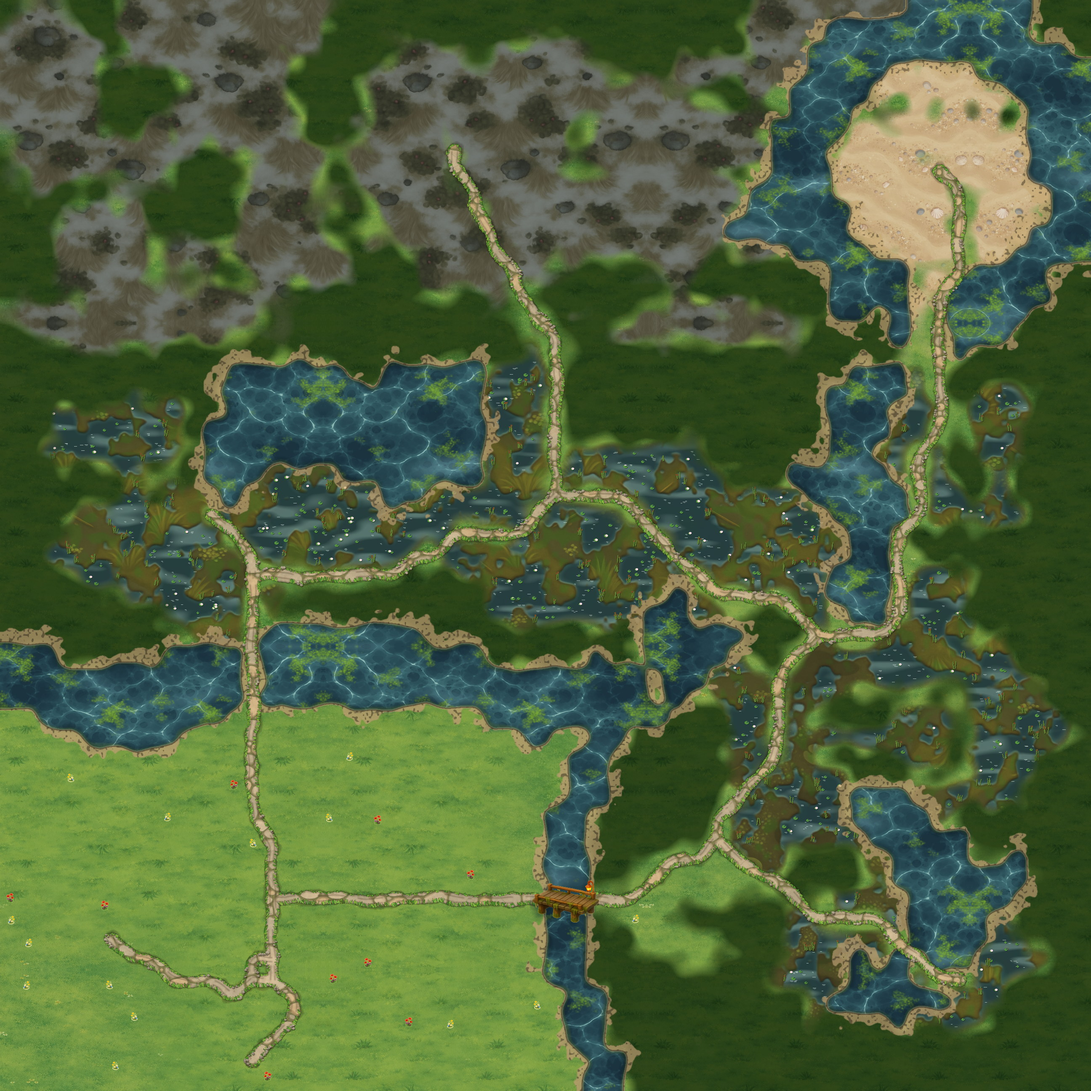
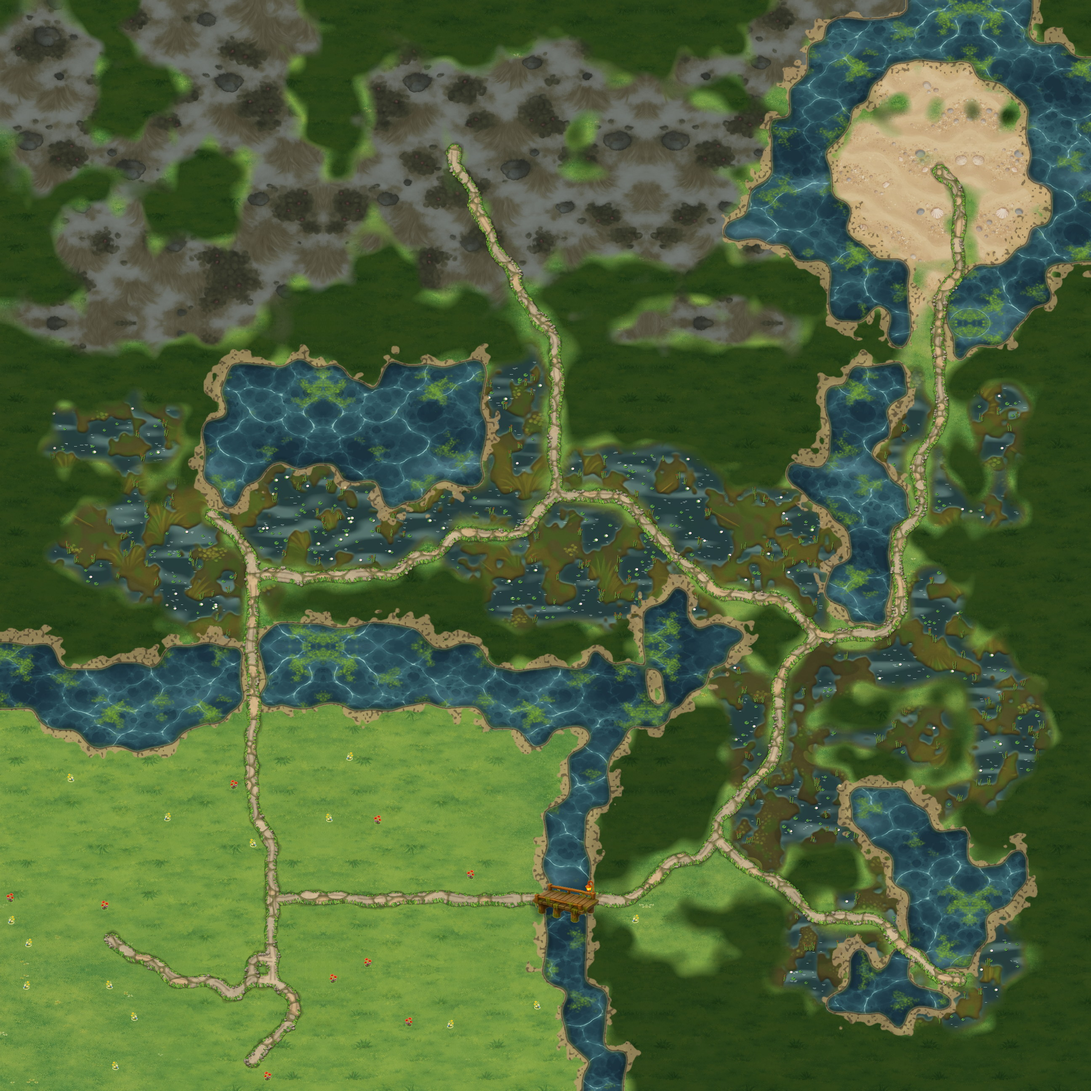
Bagna: runda 10 planszy — kamieniołom w zakątku za strażą, kopalnia pokeballi zamknięta lasem, ekrany pogranicza odchudzone
Kamieniołom (11,51) → (5,52) do zakątka za strażą (8,50), stos pod
kopalnią; kopalnia pokeballi otoczona lasem, straż (17,42) w jedno-
polowym wylocie. Bez źródła (8,27), jagód (9,29), straży (32,46);
kępa doliny w łąkę, wysepki lasu na płaskowyżu w ziemię jałową, las
w zatokach. 116 obiektów co 11,0 pola, pasy 22/21/31/22/20, bez
bitwy 24 %, probe-misja OK.

Claude-Session: https://claude.ai/code/session_01BGiaZhgTwDgLbUxsH7vpi6

diff --git a/src/data/plansza-teren-bagna.ts b/src/data/plansza-teren-bagna.ts
@@ -9,57 +9,57 @@
 // T las, # skały, ~ woda.
 
 export const TEREN = [
-  'T##TTTjjjjjjjjjjTTTTTTTTTTTTTTTTTTTTTjjjjjjjj~~~~~~TTT',
+  'T##TTTTjjjjjjjjTTTTTTTTTTTTTTTTTTTTTTTjjjjjjj~~~~~~TTT',
   'T###TTjjjjjjjjjjTTT#TTTTTTTTTTTTTTTTTjjjj~~~~~~~~~~TTT',
-  '#####TjjjjjjjjjTTTTTTjjTTjTjjTTTTTTTTjjj~~~~~~~~~~~~~T',
+  '#####TTjjjjjjjjTTTTTTTTTTTTjjTTTTTTTTjjj~~~~~~~~~~~~~T',
   '#####TTTTjjjjjTTTTjj##jj#jjjjjTTTjjjjjjj~~~~,,,,~~~~~~',
   '#####TTTTjjjjjTTTTjjjjjjjjjjjjjjjTTTTjj~~~~,,,,,,,~~~~',
   '#####TTTTjjjjjjTTTjjjjjjjjjjTT######TTT~~~TTTT,TTTT~~~',
-  '####jTTjjjjjjjjTTTjjjjjjjjjjT#########~~~~,,,,,,,,,~~~',
-  'T####jjjjTTTjjjjTjjjjj=jjjjjT#########~~~,,,,,,,,,,~~~',
-  'T###jjjjjTTTjjjjTjjjjj=jjjjjTT######TT~~~,,,,,=,,,,~~~',
-  'T#TTTTTTTTTTjjjTjTjjjjj=jjjjjjjjjjjjj~~~~,,,,,,=,,,,~~',
-  'TTTjjjjTTTTTjjjjTTTjjjj=jjjjjjjjjjjjj~~~~~,,,,,=,,,,~~',
-  'TTTjjjjTTTTTjjjjTTjjjjjj=jjjjjjjjjjj~~~~~~,,,,,=,,,~~~',
+  '####TTTjjjjjjjjTTTjjjjjjjjjjT#########~~~~,,,,,,,,,~~~',
+  'T####jjjjTTTjjjjTTjjjj=jjjjjT#########~~~,,,,,,,,,,~~~',
+  'T###TjjjjTTTjjjjTjjjjj=jjjjjTT######TT~~~,,,,,=,,,,~~~',
+  'T#TTTTTTTTTTjjjjjjjjjjj=jjjjjjjjjjjjj~~~~,,,,,,=,,,,~~',
+  'TTTjjjjTTTTTjjjjjjTjjjj=jjjjjjjjjjjjj~~~~~,,,,,=,,,,~~',
+  'TTTjjjjTTTTTjjjjjjjjjjjj=jjjjjjjjjjj~~~~~~,,,,,=,,,~~~',
   'TTTjjjjjjjjjjjjjjjTTjjjj=jjjjjjjjjjTjjj~~~~,,,,=,,~~~~',
-  'TTTjjjjTTTTTTjjjjTTTTjjjj=jTTTTTTjTTTTTTT~~~~,,=~~~~TT',
+  'TTTTjjjjjjjjjjjjjTTTTjjjj=jTTTTTTTTTTTTTT~~~~,,=~~~~TT',
   'TTTT####jjjjjjTTTTTTTjjTj=TTTTTTTTTTTTTTT~~~~,=~~~~~TT',
   '###########T#TTTTTTTTTTTTT=jTTTT######T#T~~T~,=~~~~TTT',
   'T###########TT#TTTTTTTTTTTj=TT##########TTTT~,=~~~TTTT',
   'T############TTTTTTTTTTTTTb=T############TTTT,=~TTTT#T',
   'TT#########~~~~~~TT~~~~~bbb=T###########TT~~~b=TTTTTTT',
-  'TTTTTTbTbTT~~~~~~~~~~~~~bbb=TT###########~~~~b=TbbbTTT',
+  'TTTTTTbTTTT~~~~~~~~~~~~~bbb=TT###########~~~~b=TbbbTTT',
   'TTbbbbbbbTT~~~~~~~~~~~~~bbb=TTTT######TTT~~~bb=TbbbTTT',
-  'TTTbbbbbbT~~~~~~~~~~~~~~bbb=TTTTTTbTTTTTT~~~bb=TbbbTTT',
+  'TTTbbbbbbT~~~~~~~~~~~~~~bbb=TTTTTTTTTTTTT~~~bb=TbbbTTT',
   'TTbbbbbbbT~~~~~~~~~~~~~~bbb=bbbbbbbTTTTTT~~bb=bTbbbTTT',
   'TTTTTTbTTT~~~bbbb~~~~~~~bbb=bbbbbbbbTTT~~~~~b=bTTbTTTT',
   'TTTTTTbTbbb~bbbbbbb~~bbbbbb====bbbbbbbbb~~~~~=bbTbTTTT',
   'TTTTbbbbbb=bbbbbbbbbbbbbbb=bbbb=bbbbbbbbb~~~~=bbbbbTTT',
   'TTTbbbbbbbb=bbbbbbbbbb====bbbbbb=bbbbbbbbb~~=TTTT####T',
   'TTbbbbbbbbbb=bbbbbbb==bbbbbbbbbbb=bbbbbbbb~~=TTT######',
-  'TTTTbbbbbbbb========TTTbbbbbbbbbbb=bbbbbb~~~=bbb######',
+  'TTTTbbbbbbbb========TTTbbbbbbbbbbb=bbbbbb~~~=bbT######',
   'TT#TTTbbbbbb=bTTTTTTTTTTbbbbbbbbb~b====bb~~~=bbb######',
   'TTTTTTTTbbbb=bTTTTTTTTTTbbbbbbbb~~bbTTT=bT~~=bbb######',
   'TTTTTTTTTTbb=~~~~~~~~TTTTTTTTTTT~~~~~TTT====bbbbTb###T',
   '~~~TTTTT~~~~=~~~~~~~~~~~TTTTT~TT~~~~bTT=bbbbbbbbbbTTTT',
   '~~~~~~~~~~~~=~~~~~~~~~~~~~~~~~~~T~~bbb=bbbbbbbbbbbbTTT',
   '~~~~~~~~~~~~=~~~~~~~~~~~~~~~~~~~T~Tbbb=bbbTTTTTTbbbbTT',
-  'TT~~~~~~~~~.=...........~~~~~~~~~TTTbb=bTTTTbbbTbbbbbT',
-  'TTTT~~~~~TT.=.............~..~~TTTTTbb=bbbbbbbbTbbbbbT',
+  'TT~~~~~~~~~.=...........~~~~~~~~~TTTbb=bTTTTbbbTbbbbTT',
+  'TTTT~~~~~TT.=.............~..~~TTTTTbb=bbbbbbbbTbbbbTT',
   'TTTT######T.=...............~~TTTTTTbb=bTTTTbbbTbbbbTT',
-  'TTTT######..=.......TT......~~TTTTTTb=bbbbTTTTTTbbbTTT',
-  'TTTT######..=.......TT......~~TTTTTT=bbbbb~~~bbbbbbTTT',
-  'TTTT######..=.......TT.....~~TTTTTT=bbbbbb~~~~bTTTTT#T',
-  'TTTT######...=......TT.....~~TTTTTT=bbbbbbb~~~~~TTTTTT',
-  'TTTT######...=.............~~TT..==.=bbTTTTb~~~~TT~TTT',
+  'TTTT######..=...............~~TTTTTTb=bbbbTTTTTTbbbTTT',
+  'TTTT######..=...............~~TTTTTT=bbbbb~~~bbbbbTTTT',
+  'TTTT######..=..............~~TTTTTT=bbbbbb~~~~bTTTTT#T',
+  'TTTT######...=..T.T........~~TTTTTT=bbbbbbb~~~~~TTTTTT',
+  'TTTT######...=..T.T........~~TT..==.=bbTTTTb~~~~TT~TTT',
   'TTTT######...=.............~~TT.=....==TTTTb~~~~~~~TTT',
   'TTTT######...===================..T..TT=Tbbbb~~~~~TTTT',
   'TTT..........=.............~~TT..TTTTTTb====b~~~~bTTTT',
   'TTTT.=.......=.............~~TT.....TTTbbbbb=~~~~bbTTT',
-  'TTTT..==....==.............~~TTTT...TTbbbb~b~=~~bbbbTT',
+  'TTTT..==....==.............~~TTTT...TTbbbb~b~=~~bbbTTT',
   'TTT.....===.==.............~~TTTTTTTTTbbbb~~~b==bbTTTT',
   'TTTTTTTTTT.=..=.............~~TTTTTTTTTTb~~~~~~bbbTTTT',
-  'TTTT..........=TTTTT........~~TTTT#T####b###~bbbbTTTTT',
+  'TTTT..........=TTTTT........~~TTTT#T####T###~bbbbTTTTT',
   'TTTT.....T...=.TTTTTTTTTT..T~~TTT#############TTTTTTTT',
   'TTTT.....T..=..TTTTTTTTTTTTTT~~TTT#############T#TTTTT',
   'TTTT.....T.....TTTTTTTTTTTTTT~~TTTT###########TTTTTTTT',
@@ -99,7 +99,6 @@ export const ROZSTAWIENIE: Array<{
 }> = [
   { x: 46, y: 7, rodzaj: 'artefakt', strefa: 'wroga', artefakt: 'ksiezycowy-kamien' },
   { x: 45, y: 15, rodzaj: 'potwor', strefa: 'wroga', sila: 'wodz', nazwa: 'Wódz Srebrnych Płaszczy' },
-  { x: 11, y: 51, rodzaj: 'kopalnia', strefa: 'dom', surowiec: 'kamien' },
   { x: 18, y: 46, rodzaj: 'kopalnia', strefa: 'dom', surowiec: 'odlamek' },
   { x: 11, y: 43, rodzaj: 'surowiec', strefa: 'dom', surowiec: 'jagoda' },
   { x: 4, y: 45, rodzaj: 'kopalnia', strefa: 'dom', surowiec: 'jagoda' },
@@ -131,11 +130,9 @@ export const ROZSTAWIENIE: Array<{
   { x: 38, y: 12, rodzaj: 'budynek', strefa: 'wroga', budynek: 'osrodek-ewolucji' },
   { x: 29, y: 12, rodzaj: 'budynek', strefa: 'wroga', budynek: 'arena' },
   { x: 26, y: 16, rodzaj: 'potwor', strefa: 'wroga', sila: 'silny' },
-  { x: 5, y: 51, rodzaj: 'skrzynia', strefa: 'dom' },
   { x: 3, y: 11, rodzaj: 'artefakt', strefa: 'wroga' },
   { x: 4, y: 10, rodzaj: 'skrzynia', strefa: 'wroga' },
   { x: 5, y: 10, rodzaj: 'surowiec', strefa: 'wroga', surowiec: 'kamien' },
-  { x: 8, y: 12, rodzaj: 'potwor', strefa: 'wroga', sila: 'silny' },
   { x: 12, y: 6, rodzaj: 'kopalnia', strefa: 'wroga', surowiec: 'jagoda' },
   { x: 40, y: 27, rodzaj: 'budynek', strefa: 'pogranicze', budynek: 'chatka' },
   { x: 19, y: 10, rodzaj: 'skrzynia', strefa: 'wroga' },
@@ -148,7 +145,6 @@ export const ROZSTAWIENIE: Array<{
   { x: 11, y: 3, rodzaj: 'budynek', strefa: 'wroga', budynek: 'wieza-obserwacyjna' },
   { x: 47, y: 24, rodzaj: 'budynek', strefa: 'pogranicze', budynek: 'woz' },
   { x: 13, y: 9, rodzaj: 'budynek', strefa: 'wroga', budynek: 'zrodlo' },
-  { x: 32, y: 46, rodzaj: 'potwor', strefa: 'pogranicze', sila: 'slaby' },
   { x: 35, y: 46, rodzaj: 'skrzynia', strefa: 'pogranicze' },
   { x: 35, y: 47, rodzaj: 'surowiec', strefa: 'pogranicze', surowiec: 'jagoda' },
   { x: 34, y: 47, rodzaj: 'artefakt', strefa: 'pogranicze' },
@@ -189,11 +185,9 @@ export const ROZSTAWIENIE: Array<{
   { x: 48, y: 4, rodzaj: 'surowiec', strefa: 'wroga', surowiec: 'pokeball' },
   { x: 13, y: 53, rodzaj: 'surowiec', strefa: 'dom', surowiec: 'pokeball' },
   { x: 13, y: 52, rodzaj: 'surowiec', strefa: 'dom', surowiec: 'odlamek' },
-  { x: 6, y: 51, rodzaj: 'surowiec', strefa: 'dom', surowiec: 'kamien' },
   { x: 48, y: 47, rodzaj: 'skrzynia', strefa: 'pogranicze' },
   { x: 48, y: 48, rodzaj: 'artefakt', strefa: 'pogranicze' },
   { x: 49, y: 48, rodzaj: 'surowiec', strefa: 'pogranicze', surowiec: 'odlamek' },
-  { x: 9, y: 29, rodzaj: 'surowiec', strefa: 'pogranicze', surowiec: 'jagoda' },
   { x: 3, y: 26, rodzaj: 'skrzynia', strefa: 'pogranicze' },
   { x: 3, y: 27, rodzaj: 'surowiec', strefa: 'pogranicze', surowiec: 'jagoda' },
   { x: 18, y: 27, rodzaj: 'budynek', strefa: 'pogranicze', budynek: 'portal' },
@@ -202,7 +196,6 @@ export const ROZSTAWIENIE: Array<{
   { x: 5, y: 27, rodzaj: 'budynek', strefa: 'pogranicze', budynek: 'wiatrak' },
   { x: 39, y: 48, rodzaj: 'budynek', strefa: 'pogranicze', budynek: 'gniazdo' },
   { x: 8, y: 1, rodzaj: 'budynek', strefa: 'wroga', budynek: 'zrodlo' },
-  { x: 8, y: 27, rodzaj: 'budynek', strefa: 'pogranicze', budynek: 'zrodlo' },
   { x: 3, y: 21, rodzaj: 'budynek', strefa: 'pogranicze', budynek: 'chatka' },
   { x: 49, y: 32, rodzaj: 'budynek', strefa: 'pogranicze', budynek: 'wiatrak' },
   { x: 17, y: 42, rodzaj: 'potwor', strefa: 'dom', sila: 'slaby' },
@@ -216,6 +209,10 @@ export const ROZSTAWIENIE: Array<{
   { x: 25, y: 19, rodzaj: 'skrzynia', strefa: 'pogranicze' },
   { x: 25, y: 20, rodzaj: 'surowiec', strefa: 'pogranicze', surowiec: 'pokeball' },
   { x: 26, y: 20, rodzaj: 'surowiec', strefa: 'pogranicze', surowiec: 'odlamek' },
+  { x: 5, y: 52, rodzaj: 'kopalnia', strefa: 'dom', surowiec: 'kamien' },
+  { x: 6, y: 53, rodzaj: 'surowiec', strefa: 'dom', surowiec: 'kamien' },
+  { x: 7, y: 53, rodzaj: 'skrzynia', strefa: 'dom' },
+  { x: 7, y: 12, rodzaj: 'potwor', strefa: 'wroga', sila: 'silny' },
 ];
 
 /** Ustawienia misji na tej planszy — patrz `UstawieniaPlanszy` w `src/data/mapy.ts`. */

diff --git a/tools/mapy/bagna.py b/tools/mapy/bagna.py
@@ -739,6 +739,7 @@ def rozstaw(g):
     runda_7(g)
     runda_8(g)
     runda_9(g)
+    runda_10(g)
 
 
 #: Runda 11 (HotA, zwycięzca rundy 10: „nic nie przypomina bagna — stawy małe,
@@ -2178,6 +2179,74 @@ def runda_9(g):
     _odswiez(g)
     g.zasyp_odciete(m)
     print(f'  runda 9: usunięte {len(zabrane)}, obiektów {len(g.obiekty)}')
+
+
+# --- RUNDA 10 PĘTLI (werdykt ślepego porównania r9: WYGRANA, 26 TAK /
+# 4 CZĘŚCIOWO / 0 NIE: A2, C1, G1, G3) -------------------------------------
+#  - A2: kopalnia kamieni z otwartej łąki (11,51) do zakątka SW za strażą
+#    (8,50) — na (5,52), nie (6,52): rysunek kamieniołomu ma ~4,1 pola
+#    szerokości (300 × 160 px przy 2,2 pola wysokości), więc przy (6,52)
+#    sięgałby do x = 8,56, na straż. Przy (5,52) kończy się na 7,56. Bryła
+#    (4–6, 51) wypada na skrzynię i kamień (5–6, 51), więc stos zjeżdża pod
+#    kopalnię: (6,53) kamień, (7,53) skrzynia. Stare miejsce zostaje łąką.
+#  - C1: straż (17,42) stała na otwartej łące przy kopalni pokeballi (17,41).
+#    Kopalnia dostaje lasek po bokach wejścia — (16,41), (18,41), (16,42),
+#    (18,42) — i straż stoi w jednopolowym wylocie niszy. Nisza (23–24, 40)
+#    nie ma już ścian (kępy zdjęte w rundach 7–9), więc przenosiny tam
+#    wymagałyby nowego lasu na łące doliny (G3).
+#  - G1: precz źródło (8,27) i jagody (9,29) z zakątka zachodniego (zostaje
+#    stos (7–8, 29)) oraz słaba straż (32,46) — wylot mostu zamyka (30,44).
+#  - G3: kępa (20–21, 37–41) w łące doliny → łąka; wysepki lasu na
+#    płaskowyżu wroga (15–17, 9–11) i (7–12, 13) → ziemia jałowa. Bez rzędu
+#    lasu (7–12, 13) korytarz straży (8,12) przestał być korytarzem — straż
+#    stała na otwartym. Przejście na zachód, do stosu NW (3–5, 10–11), to
+#    teraz szyjka x = 7, rzędy 12–13, między lasem (7,11) a skałami (7,14):
+#    straż (8,12) → (7,12), w samej szyjce (C1/C4).
+R10_USUN = [(8, 27), (9, 29), (32, 46), (11, 51), (5, 51), (6, 51), (8, 12)]
+#: Przeniesienia: stare pole → nowe (wpis ten sam).
+R10_PRZENIES = {(8, 12): (7, 12)}
+R10_POSTAW = [
+    ((5, 52), ('kopalnia', 'kamien')),
+    ((6, 53), ('surowiec', 'kamien')),
+    ((7, 53), ('skrzynia', None)),
+]
+R10_LAS = [(16, 41), (18, 41), (16, 42), (18, 42)]
+R10_LAKA = [(x, y) for x in (20, 21) for y in range(37, 42)]
+R10_JALOWA = [(15, 9), (16, 9), (17, 9), (16, 10), (17, 10), (16, 11), (17, 11)] + \
+    [(x, 13) for x in range(7, 13)]
+#: B3: po kępie, wysepkach i trzech obiektach mniej obiekt wypadał co 11,1
+#: pola — zatoki gruntu wcinające się w las i skały (≥ 4 z 8 sąsiadów to las
+#: albo skała, bez drogi i obiektów obok) zarastają lasem: brzeg masywów
+#: gładszy, a gęstość wraca do 9–11.
+R10_ZATOKI = [
+    (4, 6), (4, 8), (6, 0), (6, 2), (15, 0), (21, 2), (22, 2), (25, 2), (3, 13),
+    (17, 7), (8, 19), (33, 13), (34, 21), (37, 0),
+    (47, 28), (50, 39), (51, 47), (40, 50), (52, 35), (52, 36),
+]
+
+
+def runda_10(g):
+    m = g.mapa
+    zabrane = dict(_usun(g, R10_USUN))
+    _odswiez(g)
+    zajete = {p for p, _ in g.obiekty} | g.blokada
+    for x, y in R10_LAKA:
+        if m[y][x] == 'T':
+            m[y][x] = '.'
+    for x, y in R10_JALOWA:
+        if m[y][x] == 'T':
+            m[y][x] = 'j'
+    for x, y in R10_LAS + R10_ZATOKI:
+        if m[y][x] in '.bj,' and (x, y) not in zajete:
+            m[y][x] = 'T'
+    _odswiez(g)
+    for p, w in R10_POSTAW:
+        g.postaw(p, w)
+    for stare, nowe in R10_PRZENIES.items():
+        g.postaw(nowe, zabrane[stare])
+    _odswiez(g)
+    g.zasyp_odciete(m)
+    print(f'  runda 10: usunięte {len(zabrane)}, obiektów {len(g.obiekty)}')
 
 
 NAGLOWEK = '''// PLIK GENEROWANY — nie poprawiaj ręcznie.

diff --git a/STAN.md b/STAN.md
@@ -211,6 +211,42 @@ tabele `R9_*` (usunięcia, przeniesienia stare → nowe pole, teren).
   G1 w sensie okna przesuwnego dalej 23; czwarty pas (22) niższy niż drugi
   (25), garb jest, ale niesymetryczny.
 
+Runda 10 buildera (po werdykcie r9: WYGRANA ślepo, 26 TAK / 4 CZĘŚCIOWO /
+0 NIE: A2, C1, G1, G3). Funkcja `runda_10(g)` po `runda_9`, tabele `R10_*`.
+- **A2**: kopalnia kamieni z otwartej łąki (11,51) → (5,52) w zakątku SW za
+  strażą (8,50), nie (6,52): rysunek kamieniołomu ma ~4,1 pola szerokości
+  (plik 300 × 160 przy 2,2 pola wysokości), przy (6,52) sięgałby x = 8,56,
+  czyli na straż; przy (5,52) kończy się na 7,56 (sprawdzone na zrzucie).
+  Bryła (4–6, 51) wypadała na skrzynię i kamień (5–6, 51) → stos pod
+  kopalnią: (6,53) kamień, (7,53) skrzynia. (11,51) zostaje łąką. BFS ze
+  strefami straży: zakątek (kopalnia, stos, (4,50)) zamknięty bez bitwy.
+- **C1**: straż (17,42) była na łące — kopalnia pokeballi (17,41) dostała
+  lasek po bokach wejścia (16,41), (18,41), (16,42), (18,42); straż stoi
+  w jednopolowym wylocie. Nisza (23–24, 40) nie ma już ścian (kępy zdjęte
+  w r7–r9), przenosiny tam wymagałyby nowego lasu na łące doliny (G3).
+  Pierwszy dzień w `probe-mapy`: 20 obiektów (było 21), OK.
+- **G1**: precz źródło (8,27), jagody (9,29), słaba straż (32,46). Ekrany
+  (6–26, 12–29) i (30–50, 33–50): po 19 obiektów i 3 straże. Okno
+  przesuwne 21 × 18 dalej maks 23 (przy (15,10)).
+- **G3**: kępa (20–21, 37–41) → łąka; wysepki (15–17, 9–11) i (7–12, 13)
+  → ziemia jałowa. Bez rzędu lasu (7–12, 13) straż korytarza (8,12) stała
+  na otwartym → (7,12), w szyjce x = 7 (rzędy 12–13) między lasem (7,11)
+  a skałami (7,14); stos NW (3–5, 10–11) dalej zamknięty bez bitwy.
+- **B3**: po zmianach obiekt co 11,1 → 20 zatok gruntu wcinających się
+  w las/skały (`R10_ZATOKI`, ≥ 4 z 8 sąsiadów las/skała, bez drogi i obiektów
+  obok) zarosło lasem. (36,12) odpadło — jedyne dojście do ośrodka (38,12).
+- Liczby: 116 obiektów, co 11,0 pola (1271 przejezdnych); budowle 32 +
+  jasnowidz (28,4 %), surowce 25 (21,6 %), skrzynie 23 (19,8 %), artefakty
+  10 (8,6 %), kopalnie 11 (9,5 %), straże 14 (12,1 %); pasy [22, 21, 31,
+  22, 20]; bez bitwy 24 % (299 pól); do zamku wroga 44, najdalszy zakątek 63.
+- Sondy: `probe-mapy` Bagna bez ŹLE, `probe-misja` WSZYSTKO OK, tsc OK.
+  `runda-planszy.sh bagna 5203` 4 razy (raz zrzut padł na „element is not
+  stable" — powtórka przeszła).
+- Nierozwiązane: B3 na samej granicy (11,0); pierwszy pas (22) wyżej niż
+  drugi (21) — garb w środku jest, ale lewe zbocze płaskie; lasek przy
+  kopalni pokeballi to cztery wierzby na łące — krytyk może je wziąć za
+  szpaler; okno przesuwne 23.
+
 ## Pokémart — sklep z przedmiotami zamiast gildii magów (2026-09-29)
 
 **Co jest.** Plecak trenera przestał się napełniać sam przed każdą bitwą —
